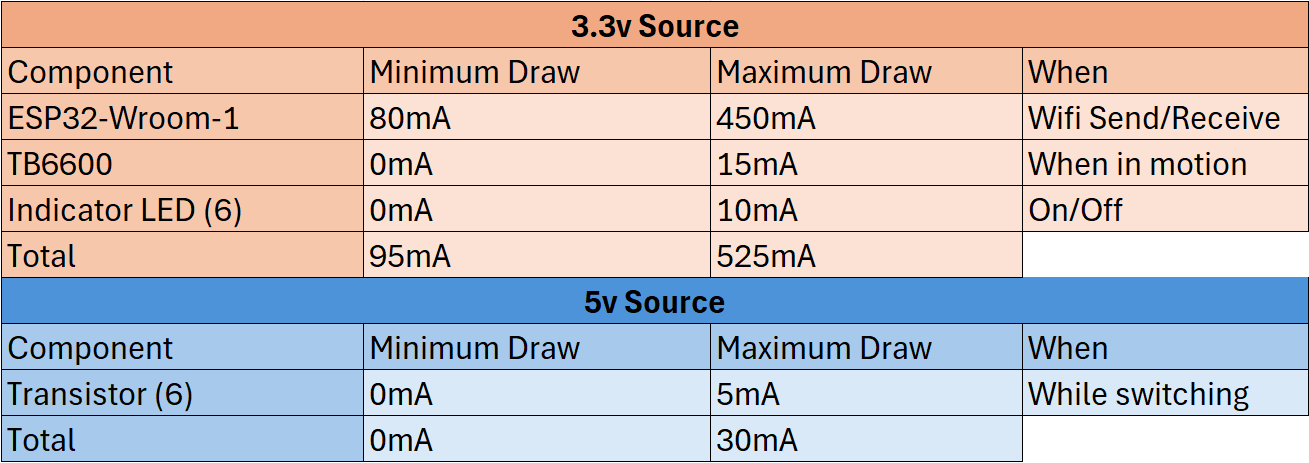
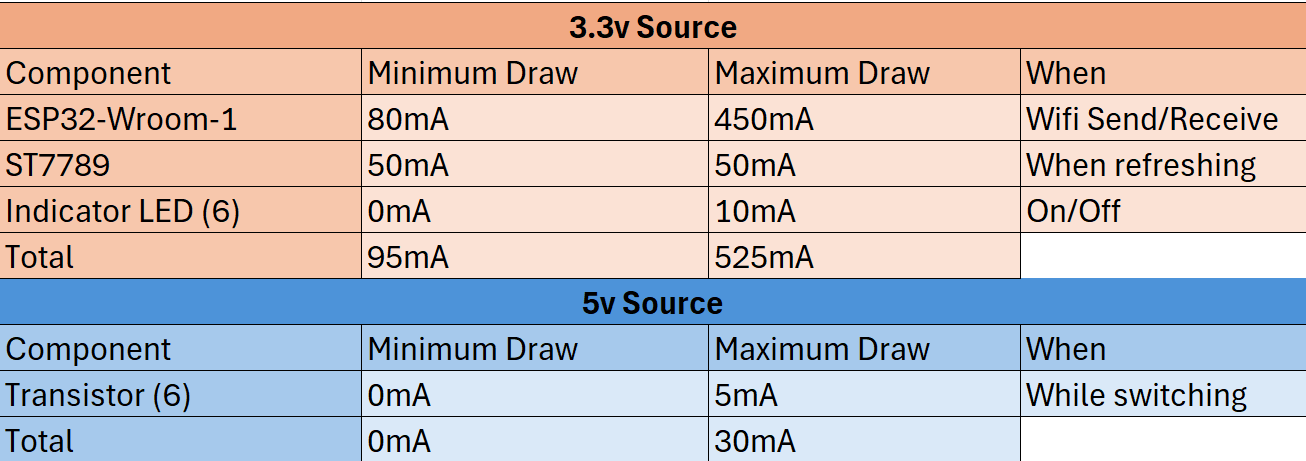
Beginnings of hardware adaptation

Changed region(s): [[0.0, 0.0, 1.0, 1.0]]

diff --git a/HardwareSchematic.html b/HardwareSchematic.html
@@ -53,24 +53,31 @@
             <p class="content-header"> Power System Layout </p>
             <p class="content-text">
                 Due to the requirements of the project, two power systems are required. One power system is for the
-                ESP32, while the 5v system is used to drive the pulse pins on the stepper motor driver.
-                It would be considerably easier to move to a 5v microcontroller, but this solution
-                is a side-effect of the class-set project requirements.
+                ESP32, while the 5v system is used to drive the pulse pins on the stepper motor driver. After my team
+                swap I repurposed this system
+                to operate as a 5v software SPI driver for an external display. This did not require any hardware
+                modifications to function.
             </p>
             <div class="zoomable-container">
                 <img class="zoomable-image" src="media/Hardware_Schematic/power-system.png" alt="Hardware Diagram">
             </div>
         </div>
-
     </div>
 
     <div id="dropdown3" class="dropdown-content" style="display: none;">
         <div class="deployable-content-box">
-            <p class="content-header"> Motor Driver and I2C IO expander </p>
+            <p class="content-header"> Motor Driver</p>
             <p class="content-text">
                 My board needs to interface with a 24v stepper motor, driven by an external driver. This driver requires
                 a 5v magnitude for the pulse, which cannot be provided by the 3.3v microcontroller. My solution is
                 to use MOSFETs with a trigger at 0.7v to activate the 5v pulse, which in turn drives the motor driver.
+                The original project design involved driving a stepper motor using these GPIO pins, but after being
+                moved to the new team my subsystem was repurposed to utilize
+                software-based SPI. This adaptation did not hinder the functionality of this subsystem, and was still
+                driven using the same hardware. While this was almost certainly
+                not necessary given the new requirements, the board was already manufactured and making modifications
+                would not have provided any improved functionality given the time
+                constraints.
             </p>
             <div class="zoomable-container">
                 <img class="zoomable-image" src="media/Hardware_Schematic/motor-system.png" alt="Hardware Diagram">
@@ -91,7 +98,9 @@
             </p>
 
             <div style="position: relative; width: 85%; padding-top: 15%; margin:auto; height: 15vh;">
-                <iframe src="https://onedrive.live.com/embed?resid=EFB59CC599CE24EF%21506248&authkey=%21AKZRtzgKRwCInaY&em=2&wdAllowInteractivity=False&wdHideGridlines=True&wdHideHeaders=True&wdDownloadButton=True&wdInConfigurator=True&wdInConfigurator=True" style="position: absolute; top: 0; left: 0; width: 100%; height: 100%;" frameborder="0"
+                <iframe
+                    src="https://onedrive.live.com/embed?resid=EFB59CC599CE24EF%21506248&authkey=%21AKZRtzgKRwCInaY&em=2&wdAllowInteractivity=False&wdHideGridlines=True&wdHideHeaders=True&wdDownloadButton=True&wdInConfigurator=True&wdInConfigurator=True"
+                    style="position: absolute; top: 0; left: 0; width: 100%; height: 100%;" frameborder="0"
                     scrolling="no">
                 </iframe>
             </div>
@@ -100,15 +109,14 @@
             <p class="content-text">
                 To ensure sufficient power flow from the supply to adequately power all required hardware, I have
                 generated this power budget showing the allocation required
-                to drive all necessary hardware. Due to the majority of my power being used from an external supply to
-                drive the stepper motor, the only components with major power
-                draw are the ESP32, particularly during wifi transmission and SSID detection.
+                to drive all necessary hardware. The screen has rather minor power draw, but to provide ample safety margin I elected to maintain the 
+                750mA fuse, so while the power is overspecced for the setup, it is a completely valid option for this setup.
             </p>
             <p class="content-text">
                 I have elected to only show components that actually have a notable power draw to minimize the work
                 required to streamline the document, especially given the quantity of individual components.
             </p>
-            <img style="max-width: max-content; max-height: max-content; margin:auto; margin-bottom: 2vh;"
+            <img style="width: 80%; max-height: max-content; margin:auto; margin-bottom: 2vh;"
                 src="media/Hardware_Schematic/power-budget.png" alt="Power Budget Image">
             <p class="content-text">
                 The output of my voltage regulator is 500mA at 3.3v. Which means that it is capable of powering all

diff --git a/componentselection.html b/componentselection.html
@@ -200,22 +200,20 @@
     <h1>Subsystem functionality</h1>
 
     <pt> 
-        Our team's project is a simulated wind-tunnel, where we use a small airplane on a pivot with streamers to show airflow,
-        as well as a 7-segment display reflecting windspeed. These values can be controlled by an operator using dials. My part is
-        the aircraft and relevant control systems. This means I need a stepper motor with fine control, and a way to execute on commands
-        from the controller. Our team has decided it would be most efficient to use UART for our intersystem communication, and just
-        forward messages between control systems with headers to identify the source of individual messages. Response time between systems
-        is not paramount, so this should be a viable strategy assuming all team members chose to use microcontrollers with sufficient
-        data storage to stage the information to be sent.
+        Our team's project is a magnetic accelerator, using coils and motor drivers to accelerate a magnetic ball bearing and provide
+        perpetual motion. My system's purpose was to drive a screen providing data to the operator showing which sensor has detected the ball and it's estimated
+        position. To accomplish this, it required converting most of my original motor driver system to a software SPI driven system. I am doing this 
+        retroactively, so the hardware selection for the screen will not use selection criteria, as I had to use what was on-hand to complete the conversion
+        after the rapid team pivot near the end of the project.
     </pt>
 
 <hr>
 
-    <h1>PIC Pin Diagram</h1>
+    <h1>ESP Pin Diagram</h1>
     <pt>
         As much of my subsystem's communication is handled through a serial interface, very few pins are actually
         required to
-        interface with the required hardware. SPI interfacing controls the motor, and the UART pins handle inter-system
+        interface with the required hardware. SPI interfacing controls the screen, and the UART pins handle inter-system
         communication
         with my teammates subsystems. Below is the pinout diagram showing the current pin allocations, which may be
         subject to change
